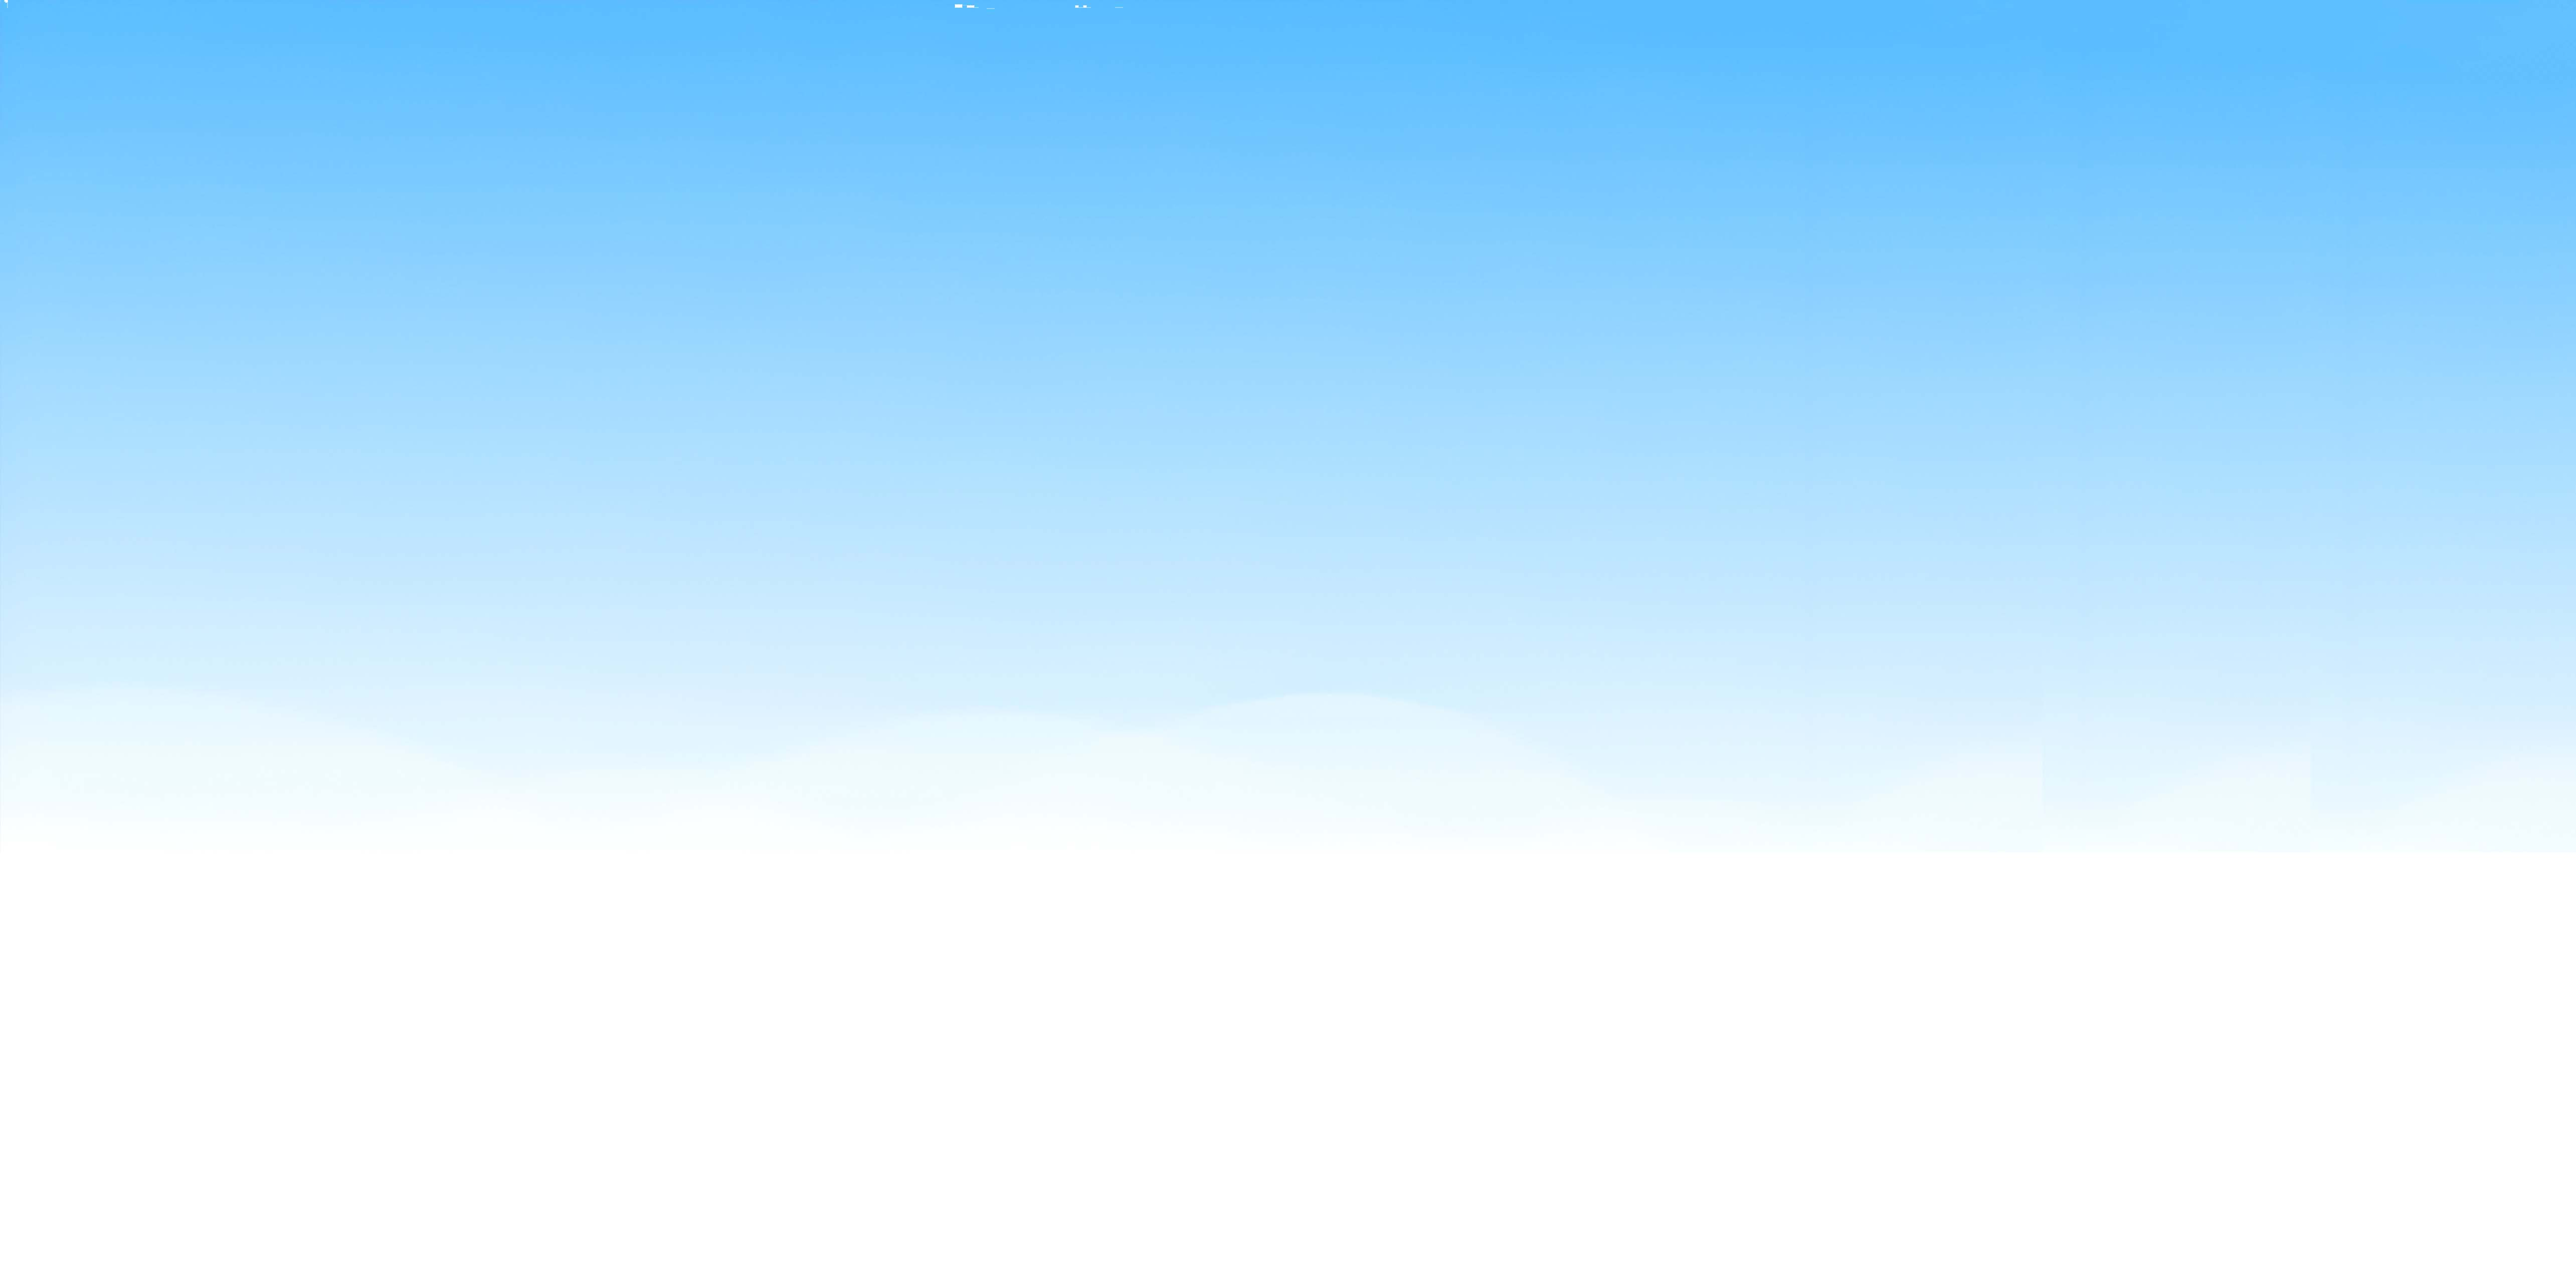
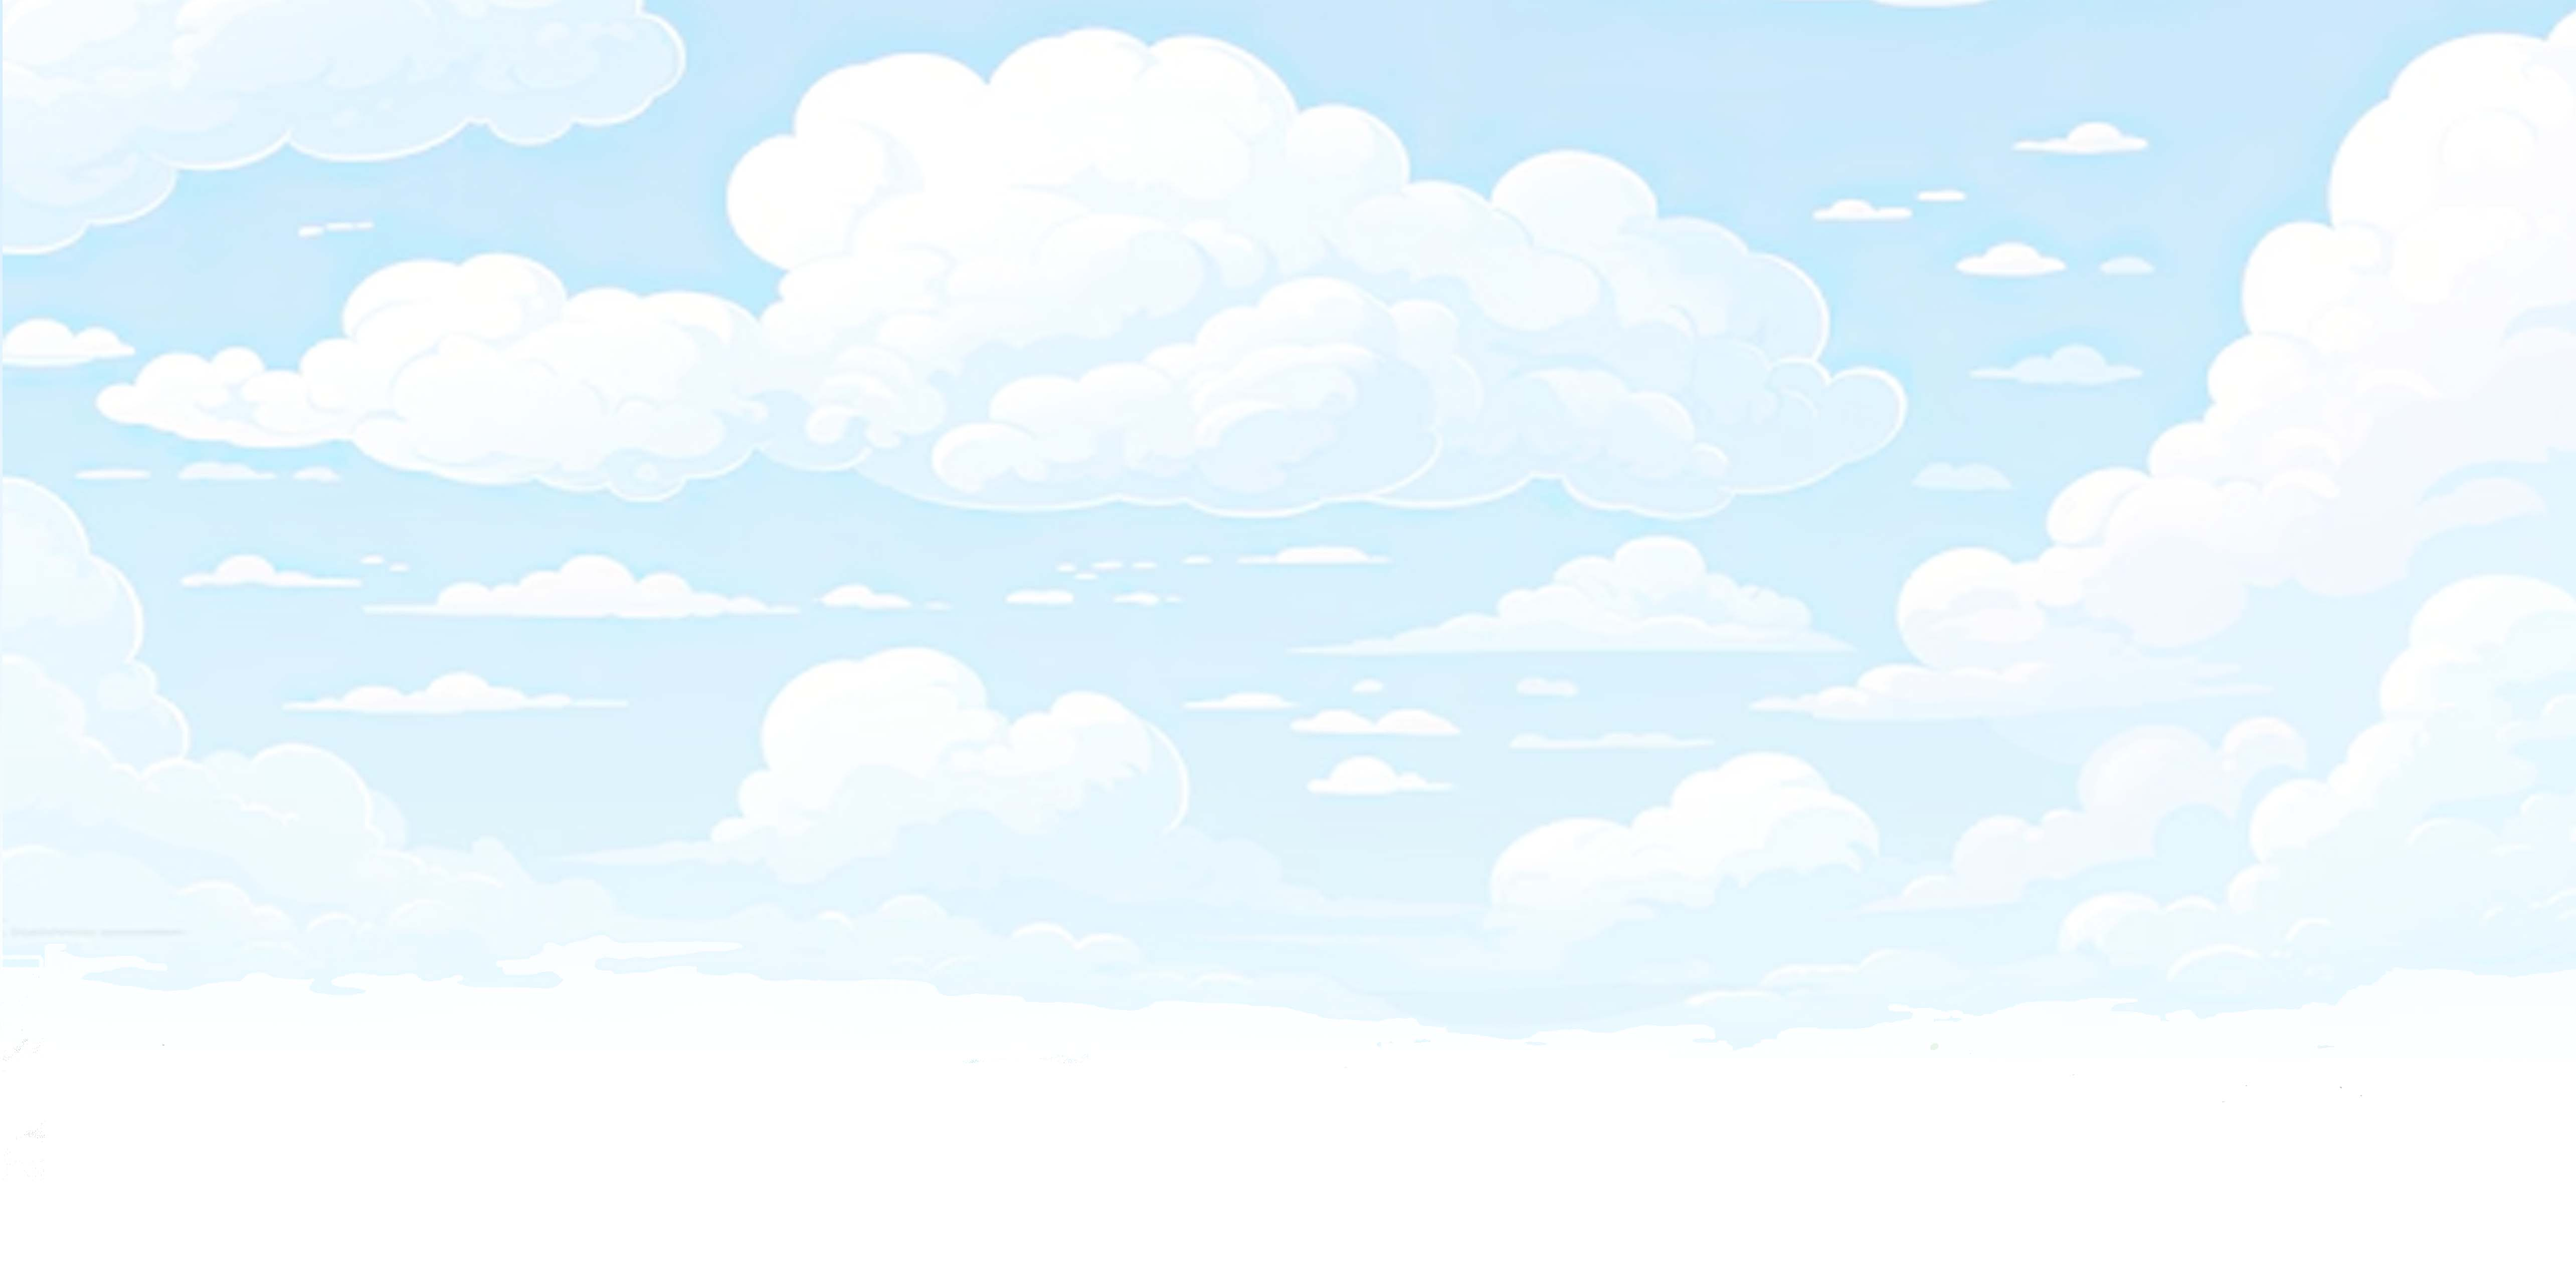
feat: add start screen, update background, and display score
- Implemented start screen with game instructions
- Changed background for enhanced visual appeal
- Made score visible during gameplay

diff --git a/index.html b/index.html
@@ -1,56 +1,62 @@
 <!DOCTYPE html>
 <html lang="en">
-<head>
-    <meta charset="UTF-8">
-    <meta name="viewport" content="width=device-width, initial-scale=1.0">
-    <link rel="icon" type="image/png" href="assets/favicon.png"/>
+  <head>
+    <meta charset="UTF-8" />
+    <meta name="viewport" content="width=device-width, initial-scale=1.0" />
+    <link rel="icon" type="image/png" href="assets/favicon.png" />
     <title>Puddle's Hop</title>
     <style>
-        html, body {
-            margin: 0;
-            padding: 0;
-            height: 100%;
-            display: flex;
-            justify-content: center;
-            align-items: center;
-            background-color: #f0f0f0;
-        }
+      body {
+        margin: 0;
+        padding: 0;
+        height: 100vh;
+        width:100vw;
+        background-image: url(assets/home-page.png);
+        background-size: cover; /* Makes the image cover the entire background */
+        background-position: center; /* Centers the image */
+        background-repeat: no-repeat; /* Prevents the image from repeating */
+        display: flex;
+        justify-content: center;
+        align-items: center;
+      }
 
-        #start-screen {
-            display: flex;
-            width: 100%;
-            height: 100%;
-            justify-content: center;
-            align-items: center;
-            flex-direction: column;
-        }
+      #start-button {
+        padding: 20px 40px;
+        font-size: 24px;
+        cursor: pointer;
+        background-color: #e16a85;
+        color: white;
+        border: none;
+        border-radius: 15px;
+        font-size: 2rem;
+        box-shadow: 0px 4px 8px rgba(0, 0, 0, 0.6);
+        transition: background-color 0.3s;
+        animation: moveUpDown 2s infinite;
+      }
 
-        #start-button {
-            padding: 20px 40px;
-            font-size: 24px;
-            cursor: pointer;
-            background-color: #4CAF50;
-            color: white;
-            border: none;
-            border-radius: 5px;
-            box-shadow: 0px 4px 8px rgba(0, 0, 0, 0.1);
-            transition: background-color 0.3s;
-        }
+      #start-button:hover {
+        background-color: #ef5c7e;
+      }
 
-        #start-button:hover {
-            background-color: #45a049;
+      @keyframes moveUpDown {
+            0%, 100% {
+                transform: scale(1);
+            }
+            50% {
+                transform: scale(1.05);
+            }
         }
     </style>
-</head>
-<body>
+  </head>
+  <body>
     <div id="start-screen">
-        <button id="start-button">Start Game</button>
+      <button id="start-button">Start Game</button>
     </div>
 
     <script>
-        document.getElementById('start-button').addEventListener('click', () => {
-            window.location.href = 'game.html';
-        });
+      document.getElementById("start-button").addEventListener("click", () => {
+        window.location.href = "game.html";
+      });
     </script>
-</body>
+  </body>
 </html>

diff --git a/style.css b/style.css
@@ -1,50 +1,63 @@
-*{
-    margin: 0;
-    padding: 0;
-    box-sizing: border-box;
+* {
+  margin: 0;
+  padding: 0;
+  box-sizing: border-box;
 }
 
-html, body {
-    margin: 0;
-    padding: 0;
-    height: 100%;
-    background-image: url(assets/bg.jpg);
-    background-size: cover; /* Makes the image cover the entire background */
-    background-position: center; /* Centers the image */
-    background-repeat: no-repeat; /* Prevents the image from repeating */
+html,
+body {
+  margin: 0;
+  padding: 0;
+  height: 100%;
+  background-image: url(assets/bg.jpg);
+  background-size: cover; /* Makes the image cover the entire background */
+  background-position: center; /* Centers the image */
+  background-repeat: no-repeat; /* Prevents the image from repeating */
 }
 
 body {
-    display: flex;
-    flex-direction: column;
-    height: 100vh;
-    overflow: hidden;
+  display: flex;
+  flex-direction: column;
+  height: 100vh;
+  overflow: hidden;
 }
 
-.canvas-container, .image-container {
-    width: 100%;
-    padding:0;
-    margin:0;
+.canvas-container,
+.image-container {
+  width: 100%;
+  padding: 0;
+  margin: 0;
 }
 
 .canvas-container {
-    flex: 7.5;
+  flex: 7.5;
 }
 
 .image-container {
-    flex: 2.5;
-    padding: 0%;
+  flex: 2.5;
+  padding: 0%;
 }
 
 canvas {
-    width: 100%;
-    height: 100%;
-    display: block;
+  width: 100%;
+  height: 100%;
+  display: block;
 }
 
 img {
-    width: 100%;
-    height: 100%;
-    object-fit: contain;
-    display: block;
+  width: 100%;
+  height: 100%;
+  object-fit: contain;
+  display: block;
+}
+
+#score {
+  position: absolute;
+  left: 50%;
+  top: 10%;
+  transform: translateX(-50%);
+  font-size: 25px;
+  font-family: "Gloria Hallelujah", cursive;
+  font-weight: 600;
+  color: rgb(40, 99, 145);
 }

diff --git a/script.js b/script.js
@@ -28,12 +28,16 @@ document.addEventListener('DOMContentLoaded', (event) => {
 
 /**********************************************************Score data************************************************/
 var score=0;
+let scoreBox = document.getElementById('score');
 function countScore(){
     if(!gameOver){
         score++;
         // console.log(score);
+        scoreBox.innerHTML =  `Score : ${score}`
     }
 }
+
+
 
 
 
@@ -156,7 +160,7 @@ window.onload=function(){
     if(!gameOver){
     let timeGap = Math.random()*1000;
     requestAnimationFrame(update);
-    setInterval(countScore,100);
+    setInterval(countScore,500);
     setInterval(placeHurdle,1000+timeGap);  // code to place hurdles
     }
     

diff --git a/game.html b/game.html
@@ -6,10 +6,15 @@
     <title>Puddle's Hop</title>
     <link rel="icon" type="image/png" href="assets/favicon.png"/>
     <link href="style.css" rel="stylesheet">
+    <link rel="preconnect" href="https://fonts.googleapis.com">
+    <link rel="preconnect" href="https://fonts.gstatic.com" crossorigin>
+    <link href="https://fonts.googleapis.com/css2?family=Gloria+Hallelujah&display=swap" rel="stylesheet">
 </head>
 <body>
     <audio id="background-audio" src="assets/bgSound.mp3" loop></audio>
     <audio id="gameOver-audio" src="assets/gameOver.wav" ></audio>
+    <div id="score">
+    </div>
     <div class="canvas-container">
         <canvas id="board"></canvas>
     </div>
